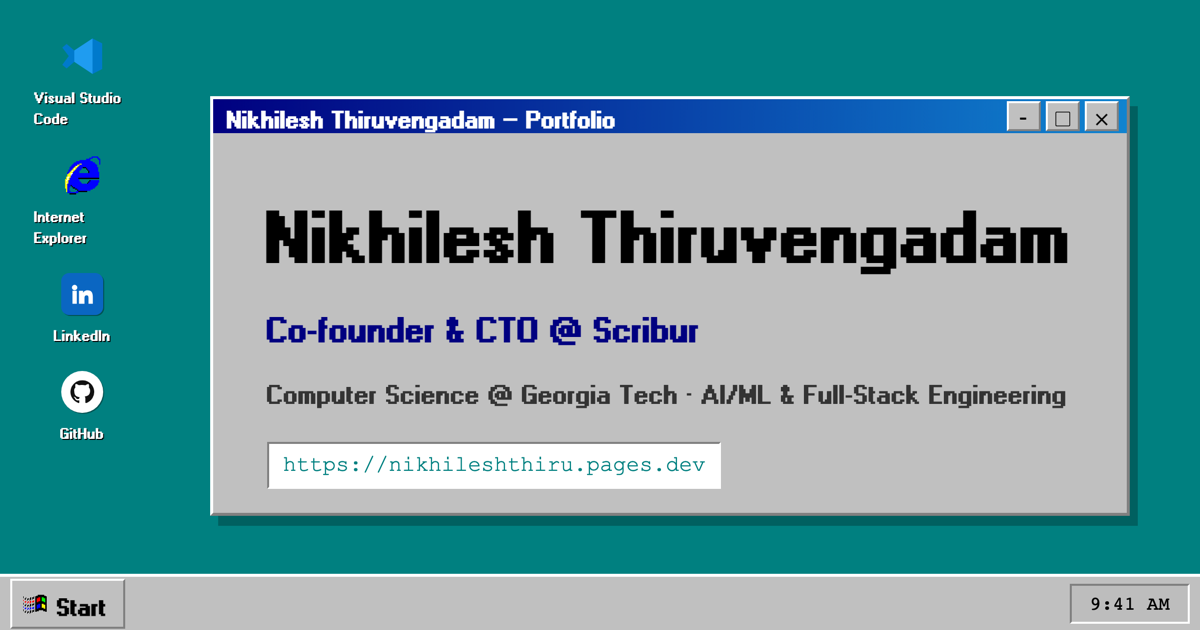
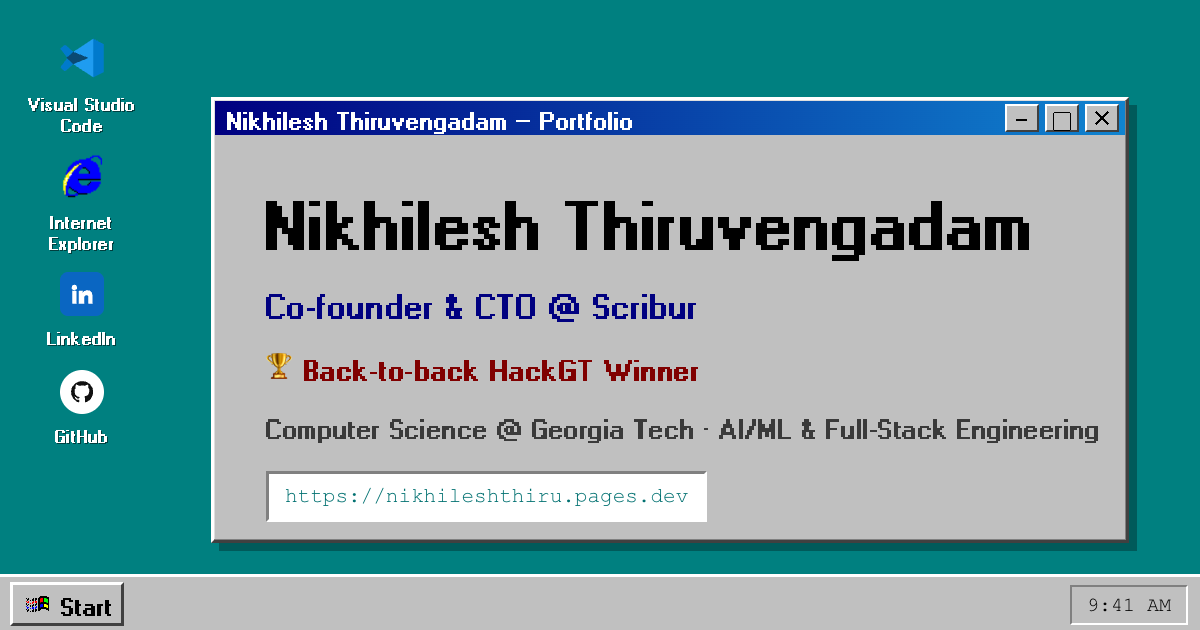
Add Rescu (HackGT 13 Best Use of Solana), awards page, back-to-back HackGT winner

diff --git a/content.js b/content.js
@@ -26,6 +26,12 @@ export const treeData = {
       open: true,
       children: [
         {
+          name: "rescu",
+          type: "folder",
+          open: false,
+          children: [{ name: "README.md", type: "file" }],
+        },
+        {
           name: "refnet",
           type: "folder",
           open: false,
@@ -70,6 +76,12 @@ export const treeData = {
       ],
     },
     {
+      name: "awards",
+      type: "folder",
+      open: false,
+      children: [{ name: "README.md", type: "file" }],
+    },
+    {
       name: "work-experience",
       type: "folder",
       open: false,
@@ -95,23 +107,72 @@ export const files = {
     type: "markdown",
     content: `# Nikhilesh Thiruvengadam
 
-Co-founder & CTO @ Scribur | Computer Science @ Georgia Tech (AI + Systems Architecture) | GPA: 4.00/4.00
+Co-founder & CTO @ Scribur | Computer Science @ Georgia Tech (Intelligence + Information Internetworks) | GPA: 4.00/4.00
+
+🏆 Back-to-back HackGT winner
 
 I build production software end to end — AI/ML systems, full-stack products, and the infrastructure underneath them. Currently building Scribur, the operating system for UGC teams.
 
 ## Highlights
 
 - Co-founder & CTO at Scribur — a multi-portal SaaS platform that runs a brand's entire creator operation, from onboarding to payout. Technical lead for the architecture and AI platform.
-- HackGT 12 (2025): 2nd Overall Winner for RefNet, an AI research platform spanning 250M+ papers.
+- HackGT 13 (2026): Best Use of Solana Winner for Rescu, disaster relief on Solana that lands aid in wallets in under a second. Built solo.
+- HackGT 12 (2025): 2nd Overall Winner out of 300+ teams for RefNet, an AI research platform spanning 250M+ papers.
 - Georgia Tech Undergraduate Researcher — machine learning for RF anomaly detection, processing 10M+ IQ samples daily.
 - Shipped six end-to-end products in the past year, from a fully on-device-AI iPhone app to an autonomous LLM trading research terminal that grades its own predictions.
 
 ## Start Here
 
 - Open projects/ — selected builds, each with the engineering story behind it.
+- Open awards/ — hackathon wins.
 - Open work-experience/ — roles and measurable impact.
 - Open skills/ — the current stack.
 - Open contact/ — get in touch.
+`,
+  },
+
+  "nikhileshthiru/projects/rescu/README.md": {
+    type: "markdown",
+    content: `# Rescu — Disaster Relief on Solana
+
+🏆 Best Use of Solana Winner at HackGT 13 (2026) · built solo in 36 hours
+
+Aid airdropped in seconds. When a hurricane reaches a home, relief money lands in that family's wallet in under a second. It can only be spent at verified local stores, Grok helps them shop, and a fraud oracle can shut down a price-gouging store on-chain.
+
+![Rescu Command Center as Hurricane Helene comes ashore](https://raw.githubusercontent.com/NikhileshThiru/rescu/main/.github/media/hero.jpg)
+
+## What it does
+
+- Decides who needs aid from the storm itself. A model scores all 83,241 US census tracts on wind, rain flooding, storm surge, housing type, and social vulnerability. No application form.
+- Airdrops the aid as the storm moves. One click mints a relief dollar token, and each household gets paid the moment the winds reach its neighborhood. Residents never need to hold any SOL.
+- Puts the rules inside the money. A Token-2022 transfer hook checks every payment on-chain: registered stores only, inside the disaster zone, $200 per order, $300 per rolling 24 hours, no reselling, and aid expires on Day 30.
+- Shops with Grok. A survivor says what they need, Grok builds a basket from stores that are actually open, and nothing is paid until they tap Confirm. Grok spends through an on-chain allowance, so even a jailbroken AI can't overspend.
+- Catches the fraud rules can't. An oracle watches every store's prices and every wallet. When a store jacks up the price of water, a case opens in about 0.3 s, and one click suspends that store on-chain.
+
+![Grok proposing a basket in the resident app](https://raw.githubusercontent.com/NikhileshThiru/rescu/main/.github/media/resident.jpg#w=260) ![Oracle console flagging a store for price gouging](https://raw.githubusercontent.com/NikhileshThiru/rescu/main/.github/media/oracle.jpg#w=390)
+
+## Engineering story
+
+- Tested the aid model on 23 real US hurricanes against what FEMA actually paid, on storms it had never seen. It matched FEMA's county split far better than a wind-only rule (0.64 vs 0.38 overlap) and beat it on 22 of 23 storms.
+- For Hurricane Helene, rain drove 39% of the aid and sent it into the North Carolina mountains around Asheville, which a wind-only map misses completely.
+- One full Helene run on one Vultr server: 20,000 households and 500 stores on-chain, $20M in aid landed at a median of 0.93 s after the storm arrived with 0 failed, and 136,645 purchases at up to 582 tx/s with 0 dropped.
+- The chain refused 423 rule-breaking payments, and on Day 30 the books balanced to the cent: disbursed = spent + returned.
+- The oracle uses robust statistics and an isolation forest to catch price gouging, duplicate identities, rapid spending, and collusion. Precision 0.99 and recall 0.87 against planted bad actors it never saw.
+- The demo replays 30 days in about 8 minutes, so each disaster carries its own clock on-chain. When the validator's clock drifted under load, every payment started bouncing as expired, so I added a guard that re-anchors it every second.
+- My JavaScript signing was the bottleneck, not Solana. Caching and switching to Node's native crypto got a 9x speedup.
+- My first time building on-chain.
+
+## Stack
+
+Rust, Anchor, Solana Token-2022 (transfer hooks), TypeScript, Node.js, Fastify, WebSockets, MCP, Next.js, MapLibre, deck.gl, H3, TimescaleDB (Tiger Data), Grok, Vultr.
+
+## Links
+
+- Live: https://rescu.tech
+- Demo video: https://www.youtube.com/embed/WFwmonSq6Fg
+- Devpost: https://devpost.com/software/rescu-qfuz8e
+- GitHub: https://github.com/NikhileshThiru/rescu
+- Program on devnet: https://explorer.solana.com/address/GrxgRShVcGaESyztvHHtaCF8YMXVhK3Wq7AesbQCaLy5?cluster=devnet
 `,
   },
 
@@ -300,6 +361,28 @@ The site you're using right now: an interactive portfolio built to feel like a W
 `,
   },
 
+  "nikhileshthiru/awards/README.md": {
+    type: "markdown",
+    content: `# Awards
+
+🏆 Back-to-back HackGT winner
+
+## HackGT 13 (2026) — Best Use of Solana
+Rescu: disaster relief on Solana. When a hurricane reaches a home, relief money lands in that family's wallet in under a second, and it can only be spent at verified local stores. Built solo in 36 hours, my first time building on-chain.
+
+- Write-up: projects/rescu
+- Devpost: https://devpost.com/software/rescu-qfuz8e
+- GitHub: https://github.com/NikhileshThiru/rescu
+
+## HackGT 12 (2025) — 2nd Place Overall
+RefNet: search 250M+ research papers and explore their citation networks as an interactive graph, with an AI assistant that can write a literature review. Built in 36 hours with a team of four, 2nd overall out of 300+ teams.
+
+- Write-up: projects/refnet
+- Devpost: https://devpost.com/software/refnet-c04g9n
+- GitHub: https://github.com/NikhileshThiru/RefNet
+`,
+  },
+
   "nikhileshthiru/work-experience/README.md": {
     type: "markdown",
     content: `# Work Experience
@@ -337,22 +420,26 @@ Web Development and Client Solutions Team
     content: `# Skills
 
 ## Languages
-- Python, TypeScript, JavaScript, Swift, Java, SQL, HTML/CSS
+- Python, TypeScript, JavaScript, Swift, Rust, Java, SQL, HTML/CSS
 
 ## AI / ML
 - PyTorch, zero-shot and continual learning, fusion models
 - LLM agent systems: tool-calling loops, structured/guided generation, grounding checks against fetched data
 - Evaluation: forward-tested eval harnesses, Brier score, calibration analysis
-- On-device AI: Apple FoundationModels, SpeechAnalyzer; hosted: OpenAI, Gemini, Whisper
+- On-device AI: Apple FoundationModels, SpeechAnalyzer; hosted: OpenAI, Gemini, Grok, Whisper
+- Anomaly detection: isolation forests, robust statistics
+
+## Blockchain
+- Solana: Anchor programs in Rust, Token-2022 transfer hooks and delegates, devnet deploys
 
 ## Frontend
-- React, SwiftUI, Vite, Tailwind CSS, shadcn/ui, Three.js, D3.js
+- React, Next.js, SwiftUI, Vite, Tailwind CSS, shadcn/ui, Three.js, D3.js, deck.gl, MapLibre
 
 ## Backend & Data
-- FastAPI, Flask, Node.js, Supabase, PostgreSQL (with row-level security), Stripe, WebSockets, SSE, REST APIs
+- FastAPI, Flask, Node.js, Fastify, Supabase, PostgreSQL (with row-level security), TimescaleDB, Stripe, WebSockets, SSE, REST APIs, MCP servers
 
 ## Infrastructure & Tooling
-- Docker, Git, GitHub Actions CI, Vercel serverless, AWS (EC2), Linux
+- Docker, Git, GitHub Actions CI, Vercel serverless, AWS (EC2), Vultr, Linux
 - Testing: pytest, Vitest, Playwright, XCTest
 
 ## Certifications

diff --git a/index.html b/index.html
@@ -3,23 +3,23 @@
 <head>
   <meta charset="UTF-8">
   <meta name="viewport" content="width=device-width, initial-scale=1.0">
-  <meta name="description" content="Nikhilesh Thiruvengadam — Co-founder & CTO at Scribur and Computer Science student at Georgia Tech. Interactive Windows 95 desktop portfolio with AI/ML and full-stack engineering projects.">
+  <meta name="description" content="Nikhilesh Thiruvengadam — Co-founder & CTO at Scribur, back-to-back HackGT winner, and Computer Science student at Georgia Tech. Interactive Windows 95 desktop portfolio with AI/ML, Solana, and full-stack engineering projects.">
   <meta name="robots" content="index,follow">
   <meta name="theme-color" content="#008080">
   <link rel="canonical" href="https://nikhileshthiru.pages.dev/">
 
   <meta property="og:type" content="website">
   <meta property="og:title" content="Nikhilesh Thiru | Windows 95 Portfolio">
-  <meta property="og:description" content="Co-founder & CTO at Scribur, CS @ Georgia Tech. Retro Windows 95 portfolio with AI/ML and full-stack projects.">
+  <meta property="og:description" content="Co-founder & CTO at Scribur, back-to-back HackGT winner, CS @ Georgia Tech. Retro Windows 95 portfolio with AI/ML and full-stack projects.">
   <meta property="og:url" content="https://nikhileshthiru.pages.dev/">
-  <meta property="og:image" content="https://nikhileshthiru.pages.dev/og-image.png">
+  <meta property="og:image" content="https://nikhileshthiru.pages.dev/og-image.png?v=2">
   <meta property="og:image:width" content="1200">
   <meta property="og:image:height" content="630">
 
   <meta name="twitter:card" content="summary_large_image">
   <meta name="twitter:title" content="Nikhilesh Thiru | Windows 95 Portfolio">
-  <meta name="twitter:description" content="Co-founder & CTO at Scribur, CS @ Georgia Tech. Retro Windows 95 portfolio with AI/ML and full-stack projects.">
-  <meta name="twitter:image" content="https://nikhileshthiru.pages.dev/og-image.png">
+  <meta name="twitter:description" content="Co-founder & CTO at Scribur, back-to-back HackGT winner, CS @ Georgia Tech. Retro Windows 95 portfolio with AI/ML and full-stack projects.">
+  <meta name="twitter:image" content="https://nikhileshthiru.pages.dev/og-image.png?v=2">
 
   <script>
     window.plausible =
@@ -112,6 +112,7 @@
             <canvas id="tesseractCanvas" class="tesseract-canvas" width="140" height="140" aria-hidden="true"></canvas>
           </div>
           <div class="desktop-watermark-name">Nikhilesh Thiruvengadam</div>
+          <div class="desktop-watermark-award">Back-to-back HackGT Winner</div>
         </div>
 
       </div>

diff --git a/styles.css b/styles.css
@@ -266,6 +266,15 @@ a {
   opacity: 0.82;
 }
 
+.desktop-watermark-award {
+  font-family: var(--mono);
+  font-size: clamp(0.52rem, 0.86vw, 0.62rem);
+  letter-spacing: 0.08em;
+  color: #0a0a0a;
+  white-space: nowrap;
+  opacity: 0.82;
+}
+
 .desktop-icon {
   position: absolute;
   top: 20px;

diff --git a/script.js b/script.js
@@ -99,6 +99,7 @@ const browserNewTabHosts = [
   "github.com",
   "x.com",
   "twitter.com",
+  "devpost.com",
 ];
 
 function trackPlausibleEvent(eventName, props = {}) {
